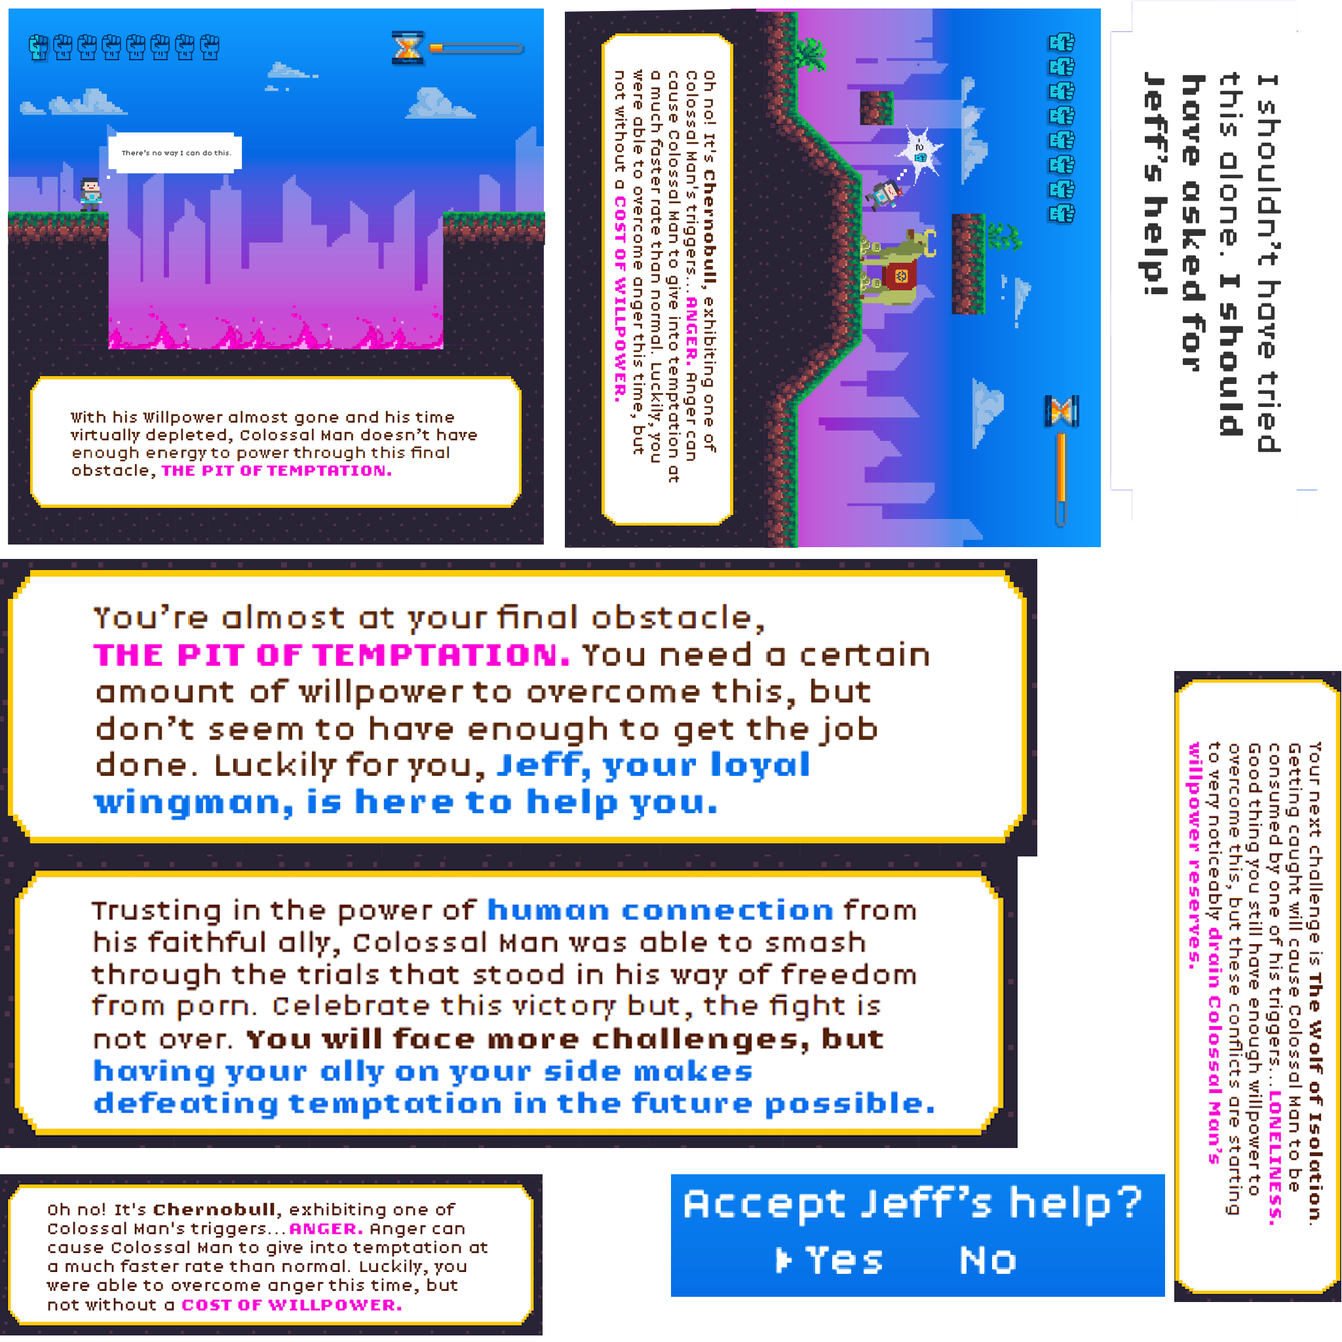
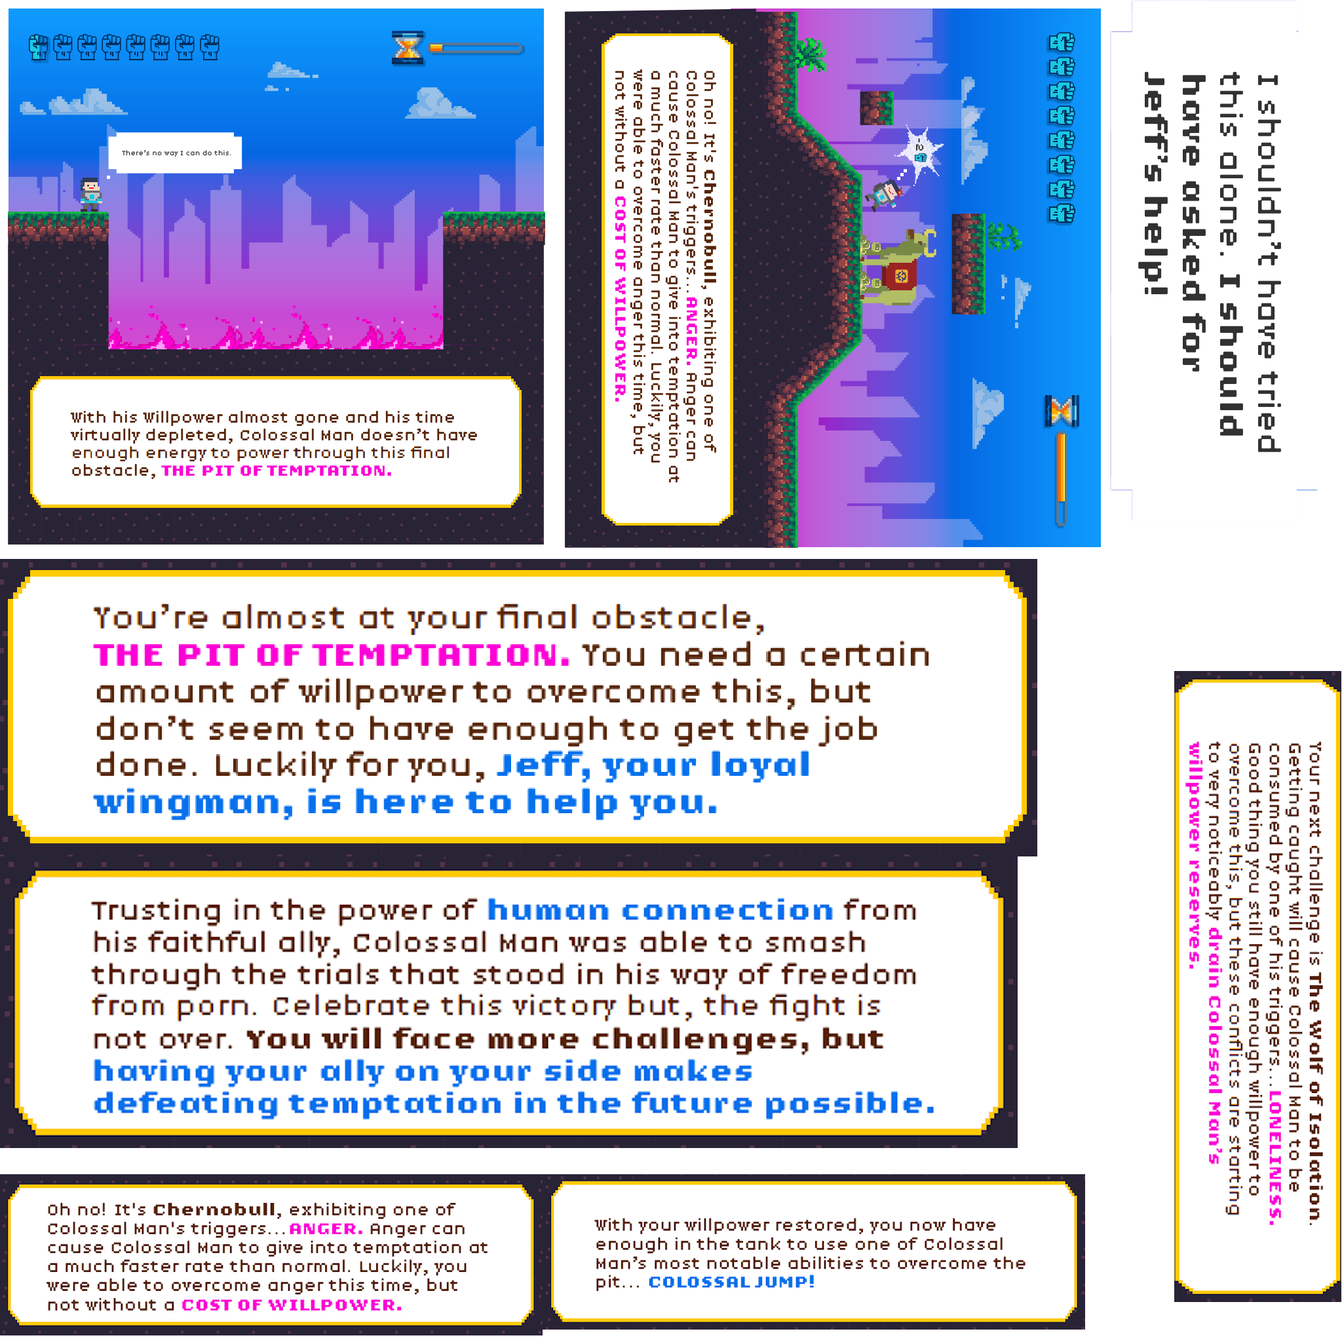
Add files via upload

Changed region(s): [[0.4062, 0.875, 0.875, 1.0]]

diff --git a/index.html b/index.html
@@ -2,155 +2,32 @@
 <html>
 <head>
 <meta charset="UTF-8">
-<title>Colossal Man: A Game of Willpower. Created by Covenant Eyes.</title>
+<title>Platformer</title>
 <meta name="viewport" content="width=device-width, initial-scale=1.0, maximum-scale=1.0, minimum-scale=1.0, user-scalable=no">
+
 <meta name="generator" content="Construct 3">
+
 	<link rel="manifest" href="appmanifest.json">
 	<link rel="apple-touch-icon" sizes="128x128" href="icons/icon-128.png">
 	<link rel="apple-touch-icon" sizes="256x256" href="icons/icon-256.png">
 	<link rel="apple-touch-icon" sizes="512x512" href="icons/icon-512.png">
 	<link rel="icon" type="image/png" href="icons/icon-512.png">
-	<link rel="preconnect" href="https://fonts.googleapis.com">
-	<link rel="preconnect" href="https://fonts.gstatic.com" crossorigin>
-	<link href="https://fonts.googleapis.com/css2?family=Open+Sans:wght@400;600&display=swap" rel="stylesheet">
-	<link rel="stylesheet" href="style.css">
+
+<link rel="stylesheet" href="style.css">
+
 </head>
 <body>
 <div id="fb-root"></div>
-	<header class="header">
-	  <div class="burger">
-	    <div class="burger__patty"></div>
-	    <div class="burger__patty"></div>
-	    <div class="burger__patty"></div>
-	  </div>
-	  <nav class="menu">
-	    <div class="menu__brand">
-	      <div class="logo">
-		<img src="images/ce_menu_img.png" style="border-radius:25%; margin-bottom:10px; width:80%;" />
-	      </div>
-	    </div>
-		<div class="menu__list">
-			<?xml version="1.0"?>
-			<svg class="menu-logo" xmlns="http://www.w3.org/2000/svg" width="211" height="41" viewBox="0 0 211 41">
-			    <defs>
-				<linearGradient id="pp92pmwrea" x1="138.312%" x2="3.456%" y1="1.59%" y2="75.506%">
-				    <stop offset="0%" stop-color="#FFF"/>
-				    <stop offset="22.09%" stop-color="#77DCEB"/>
-				    <stop offset="100%" stop-color="#0091D1"/>
-				</linearGradient>
-			    </defs>
-			    <g fill="none" fill-rule="evenodd">
-				<g fill-rule="nonzero">
-				    <g>
-					<g>
-					    <g transform="translate(-51 -1574) translate(51 1574)">
-						<ellipse cx="26.996" cy="20.828" fill="#FFF" rx="9.307" ry="9.309"/>
-						<g>
-						    <g>
-							<path fill="url(#pp92pmwrea)" d="M39.72 24.082l8.224 3.183c-.627.545-1.26 1.067-1.9 1.56l-.24.187-6.95-2.691 7.302 4.526c.035.926.035 1.87.012 2.83l-8.58-5.316 8.469 7.72c-.07.98-.165 1.97-.288 2.984l-9.8-8.934 7.983 10.57c-1.02.03-2.016.035-3 .011l-6.893-9.133 4.495 9.028c-.96-.065-1.899-.158-2.819-.276l-3.821-7.679 2.116 7.427c-.903-.152-1.788-.328-2.644-.533l-1.776-6.243.551 5.926c-.85-.228-1.676-.486-2.479-.768l-.457-4.935-.457 4.924c-.803.281-1.63.539-2.48.768l.551-5.921-1.77 6.231c-.861.206-1.74.381-2.643.534l2.11-7.422-3.821 7.674c-.92.117-1.858.21-2.82.275l4.49-9.021-6.893 9.133c-.979.023-1.98.023-3-.006l7.965-10.564-9.794 8.928c-.123-1.008-.223-2.004-.287-2.983l8.469-7.72-8.58 5.316c-.024-.961-.018-1.905.01-2.831l7.31-4.526-6.94 2.69-.246-.193c-.633-.492-1.266-1.008-1.893-1.553l8.211-3.183-9.723 1.817c-.692-.65-1.378-1.337-2.063-2.058l11.34-2.122H1.009C.674 21.326.334 20.928 0 20.517c.328-.404.662-.803.996-1.195h13.27L2.907 17.199c.68-.715 1.366-1.4 2.057-2.057l9.747 1.823-8.234-3.189c.638-.557 1.283-1.084 1.928-1.583l.205-.164 6.963 2.697-7.285-4.514c-.036-.926-.036-1.87-.018-2.832l8.563 5.306-8.44-7.71c.065-.978.164-1.975.281-2.989l9.788 8.922L10.474.334C11.494.304 12.49.3 13.469.322l6.904 9.145-4.501-9.04c.961.065 1.899.16 2.82.276l3.826 7.692-2.115-7.44c.902.153 1.787.329 2.643.534l1.776 6.249L24.27 1.8c.85.228 1.676.486 2.48.773l.456 4.942.457-4.942c.803-.28 1.63-.539 2.48-.773l-.551 5.938 1.776-6.249c.861-.205 1.74-.381 2.643-.533l-2.116 7.439L35.73.703c.92-.117 1.858-.21 2.82-.275l-4.502 9.04L40.97.321C41.948.3 42.95.305 43.964.334l-7.989 10.581 9.783-8.922c.123 1.014.217 2.005.287 2.984l-8.452 7.715 8.57-5.306c.023.962.017 1.905-.013 2.832l-7.29 4.514 6.962-2.697.217.17c.645.498 1.284 1.026 1.922 1.577l-8.234 3.189 9.747-1.823c.691.65 1.377 1.336 2.057 2.057l-11.365 2.122h13.276c.334.387.662.786.996 1.19-.334.41-.674.815-1.014 1.208H40.16l11.347 2.122c-.68.715-1.365 1.401-2.057 2.058l-9.73-1.823zm-19.136-3.553c0 3.664 2.972 6.636 6.635 6.636s6.635-2.972 6.635-6.636-2.972-6.636-6.635-6.636c-3.67.006-6.635 2.972-6.635 6.636z"/>
-							<path fill="#FFF" d="M8.293 10.212c-.035-.926-.035-1.87-.017-2.832l3.74 2.316c-.74.451-1.478.938-2.21 1.454l-1.513-.938zm.1-5.235c.065-.979.164-1.976.281-2.99l6.559 5.98c-.762.357-1.518.75-2.268 1.178L8.393 4.977zm2.08-4.643C11.494.304 12.49.3 13.47.322l4.83 6.396c-.774.27-1.548.574-2.322.909L10.474.334zm5.405.094c.961.064 1.899.158 2.819.275l2.573 5.165c-.785.182-1.57.399-2.356.65L15.878.429zm4.53.528c.903.152 1.788.328 2.644.533l1.102 3.875c-.797.094-1.589.223-2.386.387L20.408.956zm3.875.85c.85.228 1.676.486 2.479.773l.24 2.615c-.797.006-1.6.047-2.397.129l-.322-3.517zm3.364 1.096c.797.305 1.57.639 2.315.996l-.135 1.425c-.797-.082-1.6-.123-2.397-.13l.217-2.291zm2.966 1.313c.744.375 1.459.78 2.15 1.202l-.099.34c-.791-.165-1.588-.293-2.386-.387l.335-1.155zm13.996 25.67l1.547.956c.035.926.035 1.87.012 2.831l-3.769-2.333c.745-.451 1.483-.932 2.21-1.454zm-3.148 2.01l4.596 4.186c-.07.98-.165 1.97-.288 2.984l-6.576-5.99c.762-.358 1.518-.751 2.269-1.18zm-3.012 1.52l5.503 7.286c-1.02.03-2.016.035-3 .011l-4.824-6.39c.78-.263 1.553-.568 2.32-.908zm-2.925 1.113L38.55 40.6c-.962-.064-1.9-.158-2.82-.275l-2.567-5.153c.797-.176 1.583-.393 2.362-.645zm-2.86.762l1.36 4.79c-.903-.153-1.788-.329-2.644-.534l-1.101-3.863c.797-.1 1.588-.229 2.385-.393zm-2.837.44l.323 3.505c-.85-.228-1.677-.486-2.48-.768l-.24-2.608c.797-.012 1.6-.053 2.397-.13zm-2.83.123l-.212 2.286c-.797-.305-1.57-.633-2.315-.99l.13-1.425c.796.082 1.6.123 2.396.129zm-2.85-.176l-.327 1.155c-.745-.375-1.46-.774-2.151-1.202l.1-.346c.79.164 1.588.3 2.379.393z"/>
-							<g fill="#FFF">
-							    <path d="M102.88 15.98h10.673v1.313h-12.062V.663h10.837l.534 1.283h-9.982v6.05h8.774l.534 1.284h-9.308v6.7zm32.899-9.52c.996 1.16 1.506 2.644 1.506 4.397v.668H127.04c-.006 1.266.44 2.345 1.365 3.294.973 1.003 2.163 1.49 3.634 1.49 1.647 0 3.142-.499 4.443-1.484l.293-.217v1.484l-.076.052c-1.26.92-2.82 1.39-4.636 1.39-3.892 0-6.412-2.539-6.412-6.472 0-1.823.556-3.312 1.7-4.543 1.13-1.243 2.572-1.87 4.278-1.87 1.782.011 3.136.598 4.15 1.811zm.152 3.863c-.276-2.784-1.829-4.379-4.273-4.379-1.278 0-2.315.416-3.177 1.272-.814.815-1.283 1.859-1.395 3.101h8.845v.006zm-16.405 4.954L115.335 4.93h-1.506l4.976 11.941-2.597 6.25h1.454l7.625-18.191h-1.424l-4.337 10.347zm23.802-5.27l-.141-.053c-1.524-.621-2.298-1.33-2.298-2.105 0-1.729 1.7-1.987 2.714-1.987 1.067 0 2.145.31 3.3.95l.27.152V5.54l-.1-.053c-1.102-.551-2.304-.832-3.575-.832-2.433 0-3.998 1.272-3.998 3.241 0 2.04 2.128 2.873 4.003 3.605.188.07.376.147.557.217.856.335 2.292 1.09 2.292 2.404 0 1.987-2.239 2.204-3.2 2.204-1.43 0-2.737-.416-3.88-1.237l-.287-.205v1.483l.082.053c1.148.738 2.55 1.114 4.161 1.114 2.725 0 4.49-1.401 4.49-3.57.005-2.316-2.433-3.225-4.39-3.957zM13.838 14.04c-1.46.815-2.96 1.225-4.466 1.225-1.975 0-3.528-.58-4.619-1.718-1.096-1.143-1.652-2.702-1.652-4.63 0-2 .61-3.612 1.816-4.796C6.16 2.925 7.66 2.345 9.495 2.345c1.348 0 2.602.281 3.74.838l.421.211V.91L13.498.82C12.496.31 11.072.047 9.272.047c-2.526 0-4.648.856-6.306 2.538C1.296 4.28.45 6.407.45 8.916c0 2.521.78 4.614 2.31 6.226 1.53 1.606 3.686 2.42 6.412 2.42 2.033 0 3.657-.386 4.964-1.183l.14-.088v-2.503l-.269.152-.17.1zm12.63-7.592c1.22 1.249 1.841 2.802 1.841 4.626 0 1.852-.61 3.37-1.87 4.625-1.213 1.237-2.778 1.87-4.653 1.87-1.987 0-3.599-.622-4.789-1.847-1.184-1.213-1.787-2.778-1.787-4.654 0-1.794.638-3.342 1.893-4.596 1.254-1.26 2.83-1.894 4.677-1.894 1.899 0 3.476.628 4.689 1.87zm-1.675 7.78c.744-.845 1.119-1.918 1.119-3.184 0-1.213-.387-2.263-1.149-3.13-.738-.838-1.74-1.266-2.977-1.266-1.237 0-2.24.428-2.978 1.266-.762.867-1.148 1.923-1.148 3.13 0 2.703 1.617 4.45 4.126 4.45 1.277 0 2.262-.41 3.006-1.267zM50.856 6.4c1.037 1.202 1.559 2.732 1.559 4.538 0 .264 0 .457-.03.586l-.035.14h-9.383c.058 1.19.475 2.14 1.23 2.826.815.733 1.777 1.09 2.937 1.09 1.647 0 3.142-.498 4.443-1.483l.293-.222v2.274l-.076.053c-1.237.903-2.808 1.366-4.683 1.366-2.075 0-3.664-.586-4.871-1.788-1.184-1.214-1.758-2.761-1.758-4.737 0-1.788.58-3.335 1.729-4.59 1.16-1.243 2.643-1.876 4.413-1.876 1.77 0 3.189.616 4.232 1.823zm-.756 3.43c-.346-2.034-1.612-3.236-3.417-3.236-1.893 0-3.312 1.266-3.663 3.236h7.08zm48.881 4.883c-.703.469-1.4.698-2.121.698-1.12 0-1.553-.563-1.553-2.011V6.829h3.387V4.842h-3.387V.662h-1.66l-.761 4.315v7.503c0 1.747.135 2.615.557 3.57.463 1.015 1.43 1.49 3.036 1.49 1.025 0 1.934-.276 2.708-.821l.076-.053v-2.14l-.282.188zm-13-10.106c-1.623 0-3 .621-4.096 1.84l-.334-1.57h-1.817v12.415h2.397V10.91c0-2.614 1.395-4.232 3.64-4.232 1.664 0 2.66 1.249 2.66 3.341v7.275h2.398V9.801c-.006-3.353-1.724-5.193-4.847-5.193zm-25.607 0c-1.623 0-3 .621-4.097 1.84l-.334-1.57h-1.817v12.415h2.398V10.91c0-2.614 1.395-4.232 3.64-4.232 1.664 0 2.66 1.249 2.66 3.341v7.275h2.397V9.801c-.005-3.353-1.723-5.193-4.847-5.193zm17.296 4.977v7.708h-1.846l-.234-1.371c-1.008 1.09-2.462 1.64-4.332 1.64-1.535 0-2.672-.374-3.381-1.113-.71-.768-1.055-1.594-1.055-2.538 0-2.808 2.045-4.356 5.761-4.356h2.69v-.222c0-1.865-1.02-2.773-3.124-2.773-1.19 0-2.461.375-3.786 1.114l-.27.152V5.675l.094-.053c1.254-.698 2.679-1.05 4.232-1.05 3.534.006 5.251 1.642 5.251 5.013zM69.214 13.7c0 1.19 1.043 1.958 2.66 1.958 2.345 0 3.394-1.8 3.394-3.582v-.657h-2.69c-2.262 0-3.364.745-3.364 2.28zM33.59 17.293l-5.486-12.45h2.55l3.657 8.253 3.657-8.254h2.55l-5.486 12.451H33.59zm0 0l-5.486-12.45h2.55l3.657 8.253 3.657-8.254h2.55l-5.486 12.451H33.59zm0 0l-5.486-12.45h2.55l3.657 8.253 3.657-8.254h2.55l-5.486 12.451H33.59zm0 0l-5.486-12.45h2.55l3.657 8.253 3.657-8.254h2.55l-5.486 12.451H33.59zm0 0l-5.486-12.45h2.55l3.657 8.253 3.657-8.254h2.55l-5.486 12.451H33.59zm0 0l-5.486-12.45h2.55l3.657 8.253 3.657-8.254h2.55l-5.486 12.451H33.59zm0 0l-5.486-12.45h2.55l3.657 8.253 3.657-8.254h2.55l-5.486 12.451H33.59z" transform="translate(58.025 11.724)"/>
-							</g>
-						    </g>
-						    <g fill="#FFF">
-							<path d="M1.348 1.94L1.02 1.94 1.02.387.434.387.434.088 1.94.088 1.94.387 1.354.387 1.354 1.94zM3.194 1.483L3.183 1.483 2.602.616 2.602 1.94 2.28 1.94 2.28.088 2.626.088 3.188.961 3.751.088 4.103.088 4.103 1.94 3.775 1.94 3.775.61z" transform="translate(206.897 16.414)"/>
-						    </g>
-						</g>
-					    </g>
-					</g>
-				    </g>
-				</g>
-			    </g>
-			</svg>
-			<h2>
-			 Thanks for playing COLOSSAL MAN!
-			</h2>
-			<p>
-			  For over 20 years, Covenant Eyes has helped over a million people walk the path to a life free of pornography.
-			</p>
-			<a class="link-trial" href="https://covenanteyes.com/signup-v2/create-account?utm_campaign=ACP&utm_source=men&utm_medium=notalone">Try 14 Days Free</a>
-		</div>
-	  </nav>
-	</header>
+
 	<noscript>
-	  <div id="notSupportedWrap">
-	     <h2 id="notSupportedTitle">This content requires JavaScript</h2>
-	     <p class="notSupportedMessage">JavaScript appears to be disabled. Please enable it to view this content.</p>
-	   </div>
+		<div id="notSupportedWrap">
+			<h2 id="notSupportedTitle">This content requires JavaScript</h2>
+			<p class="notSupportedMessage">JavaScript appears to be disabled. Please enable it to view this content.</p>
+		</div>
 	</noscript>
 	<script src="scripts/supportcheck.js"></script>
 	<script src="scripts/offlineclient.js" type="module"></script>
 	<script src="scripts/main.js" type="module"></script>
 	<script src="scripts/register-sw.js" type="module"></script>
-	<script src="https://cdnjs.cloudflare.com/ajax/libs/jquery/2.1.3/jquery.min.js" integrity="sha512-egJ/Y+22P9NQ9aIyVCh0VCOsfydyn8eNmqBy+y2CnJG+fpRIxXMS6jbWP8tVKp0jp+NO5n8WtMUAnNnGoJKi4w==" crossorigin="anonymous" referrerpolicy="no-referrer"></script>
-	<script type="text/javascript" src="https://cdnjs.cloudflare.com/ajax/libs/gsap/2.1.3/TweenMax.min.js"></script>
-	<script src="https://cdnjs.cloudflare.com/ajax/libs/typed.js/2.0.12/typed.min.js" integrity="sha512-3J8teBiHrSyaaRBajZyIEtpDsXdPq1gsznKWIVb5CnorQuFhjWGhWe54z8YNnHHr7MZuExb9m5kvf964HiT1Sw==" crossorigin="anonymous" referrerpolicy="no-referrer"></script>
-	<script>
-	$(function() {
-	  $(".p2").typed({
-	    strings: ["Designer", "Developer", "Maker"],
-	    typeSpeed: 50,
-	    backSpeed: 10,
-	    backDelay: 2000,
-	    showCursor: false,
-	    loop: false
-	  });
-	});
-	$('a[href*=#]:not([href=#])').click(function() {
-	  if (location.pathname.replace(/^\//, '') == this.pathname.replace(/^\//, '') && location.hostname == this.hostname) {
-	    var target = $(this.hash);
-	    target = target.length ? target : $('[name=' + this.hash.slice(1) + ']');
-	    if (target.length) {
-	      $('html,body').animate({
-	        scrollTop: target.offset().top
-	      }, 1000);
-	      return false;
-	    }
-	  }
-	});
-	(function() {
-
-	  var Menu = (function() {
-	    var burger = document.querySelector('.burger');
-	    var menu = document.querySelector('.menu');
-	    var menuList = document.querySelector('.menu__list');
-	    var brand = document.querySelector('.menu__brand');
-	    var menuItems = document.querySelectorAll('.menu__item');
-	    var active = false;
-	    var toggleMenu = function() {
-	      if (!active) {
-	        menu.classList.add('menu--active');
-	        menuList.classList.add('menu__list--active');
-	        brand.classList.add('menu__brand--active');
-	        burger.classList.add('burger--close');
-	        for (var i = 0, ii = menuItems.length; i < ii; i++) {
-	          menuItems[i].classList.add('menu__item--active');
-	        }
-	        active = true;
-	      } else {
-	        menu.classList.remove('menu--active');
-	        menuList.classList.remove('menu__list--active');
-	        brand.classList.remove('menu__brand--active');
-	        burger.classList.remove('burger--close');
-	        for (var i = 0, ii = menuItems.length; i < ii; i++) {
-	          menuItems[i].classList.remove('menu__item--active');
-	        }
-	        active = false;
-	      }
-	    };
-	    var bindActions = function() {
-	      burger.addEventListener('click', toggleMenu, false);
-	    };
-	    var init = function() {
-	      bindActions();
-	    };
-	    return {
-	      init: init
-	    };
-	  }());
-	  Menu.init();
-	}());
-	</script>
 </body>
 </html>

diff --git a/style.css b/style.css
@@ -1,1 +1,44 @@
-html,body{padding:0;margin:0;width:100%;height:100%;overflow:hidden;-webkit-perspective:1000;background:#000;font-family:"Open Sans",sans-serif}html,body,canvas{touch-action:none;touch-action-delay:none}#notSupportedWrap{margin:2em auto 1em auto;width:75%;max-width:45em;border:2px solid #aaa;border-radius:1em;padding:2em;background-color:#f0f0f0;font-family:"Segoe UI",Frutiger,"Frutiger Linotype","Dejavu Sans","Helvetica Neue",Arial,sans-serif;color:#000}#notSupportedTitle{font-size:1.8em}.notSupportedMessage{font-size:1.2em}.notSupportedMessage em{color:#888}@font-face{font-family:"timmy-regular";src:url("fonts/timmy-regular.woff2") format("woff2"),url("fonts/timmy-regular.ttf") format("truetype")}.hero{height:80%;width:100%;background:#ec6f66;background:linear-gradient(to left, #005ee0, #F3A183)}@media only screen and (min-width: 320px){.hero{height:60%}}@media only screen and (min-width: 680px){.hero{height:70%}}@media only screen and (min-width: 950px){.hero{height:80%}}.inner-logo{text-align:left;position:relative;top:10px;left:10px;transform:translateY(10px);transform:translateX(1px)}.inner-text{position:relative;top:50%;transform:translateY(-50%);font-size:50px}@media only screen and (min-width: 320px){.inner-text{padding-left:15px;padding-right:15px}}@media only screen and (min-width: 400px){.inner-text{padding-left:40px;padding-right:40px}}@media only screen and (min-width: 680px){.inner-text{font-size:75px}}@media only screen and (min-width: 950px){.inner-text{font-size:100px}}.p1{display:inline-block;font-size:1em;font-weight:100;marign:0;line-height:1;color:#f5f5f5}@media only screen and (max-width: 465px){.p1{display:block;position:absolute;top:-25%;left:50%;transform:translateX(-50%)}}.p2{display:inline-block;font-size:1em;font-weight:900;marign:0;line-height:1;color:#fff}@media only screen and (max-width: 465px){.p2{position:relative;top:.6em}}.hero-down{position:absolute;left:48%;font-size:2em;width:2em;height:2em;color:#f5f5f5;border-radius:100%}.hero-down:hover,.hero-down:focus{color:#ccc}.hero-down:active{color:#f5f5f5}.hero-down i{vertical-align:bottom;position:relative;top:.1em}@media only screen and (min-width: 320px){.hero-down{top:52%}}@media only screen and (min-width: 680px){.hero-down{top:62%}}@media only screen and (min-width: 950px){.hero-down{top:72%}}#about{padding:30px}.left{text-align:left}*{box-sizing:border-box}.header{position:fixed;z-index:5;width:100%}.burger{position:absolute;z-index:10;right:25px;top:25px;cursor:pointer;transform:rotateY(0);transition:all .4s cubic-bezier(0.23, 1, 0.32, 1)}.burger__patty{width:28px;height:2px;margin:0 0 4px 0;background:#fff;transition:all .4s cubic-bezier(0.23, 1, 0.32, 1)}.burger__patty:last-child{margin-bottom:0}.burger--close{transform:rotate(180deg)}.burger--close .burger__patty:nth-child(1){transform:rotate(45deg) translate(4px, 4px)}.burger--close .burger__patty:nth-child(2){opacity:0}.burger--close .burger__patty:nth-child(3){transform:rotate(-45deg) translate(5px, -4px)}.menu{position:fixed;top:0;width:100%;visibility:hidden}.menu--active{visibility:visible}.menu__brand,.menu__list{display:flex;flex-flow:column wrap;align-items:center;justify-content:center;float:left;width:50%;height:100vh;overflow:hidden}.menu__list{margin:0;padding:20px 70px;color:#fff;text-align:center;background:#ec6f66;background:linear-gradient(to left, #005ee0, #002870);list-style-type:none;transform:translate3d(0, -100%, 0);overflow-y:scroll !important;transition:all .4s cubic-bezier(0.23, 1, 0.32, 1)}.menu__list--active{transform:translate3d(0, 0, 0)}.menu__brand{background:#fff;transition:all .4s cubic-bezier(0.23, 1, 0.32, 1);transform:translate3d(0, 100%, 0)}.menu__brand--active{transform:translate3d(0, 0, 0);text-align:center}.menu__item{transform:translate3d(500px, 0, 0);transition:all .4s cubic-bezier(0.23, 1, 0.32, 1)}.menu__item--active{transform:translate3d(0, 0, 0)}.menu__link{display:inline-block;position:relative;font-size:42px;padding:15px 0;font-weight:300;text-decoration:none;color:#fff;transition:all .4s cubic-bezier(0.23, 1, 0.32, 1)}.menu__link:before{content:"";position:absolute;bottom:0;left:50%;width:10px;height:2px;background:#fff;transform:translateX(-50%);transition:all .4s cubic-bezier(0.23, 1, 0.32, 1)}.menu__link:hover:before{width:100%}.menu a.menu__link:hover{color:#fff !important;text-decoration:none !important;font-weight:bold !important}.menu .menu__item:nth-child(1){transition-delay:.1s}.menu .menu__item:nth-child(2){transition-delay:.2s}.menu .menu__item:nth-child(3){transition-delay:.3s}.menu .menu__item:nth-child(4){transition-delay:.4s}.menu .menu__item:nth-child(5){transition-delay:.5s}.menu .menu__item:nth-child(6){transition-delay:.6s}@media screen and (max-width: 768px){ul.menu__list,div.menu__brand{float:none;width:100%;min-height:0}ul.menu__list--active,div.menu__brand--active{transform:translate3d(0, 0, 0)}.menu__list{height:75vh;transform:translate3d(-100%, 0, 0)}.menu__link{font-size:24px}.menu__brand{height:25vh;transform:translate3d(100%, 0, 0)}.menu__brand .logo{width:90px;height:90px}}.link-trial{background:#fff;border:2px solid #fff;padding:10px 20px;outline:0;text-decoration:none;border-radius:5px;box-shadow:0;color:#005ee0;margin-top:10px}.link-trial:hover{background:#005ee0;border:2px solid #fff;padding:10px 20px;outline:0;text-decoration:none;border-radius:5px;box-shadow:0;color:#fff;margin-top:10px}h2{margin-bottom:0;max-width:300px;font-size:22px !important}p{max-width:300px;font-size:16px}.menu-logo{max-width:150px;margin-bottom:0px}@media only screen and (max-width: 900px){.menu__brand{display:none !important}.menu__list{transform:none;height:100vh;width:100vw}}
+html, body {
+	padding: 0;
+	margin: 0;
+	overflow: hidden;
+	
+	background: #000000;
+	color: white;
+}
+
+html, body, canvas {
+	touch-action: none;
+	touch-action-delay: none;
+}
+
+#notSupportedWrap {
+	margin: 2em auto 1em auto;
+	width: 75%;
+	max-width: 45em;
+	border: 2px solid #aaa;
+	border-radius: 1em;
+	padding: 2em;
+	background-color: #f0f0f0;
+	font-family: "Segoe UI", Frutiger, "Frutiger Linotype", "Dejavu Sans", "Helvetica Neue", Arial, sans-serif;
+	color: black;
+}
+
+#notSupportedTitle {
+	font-size: 1.8em;
+}
+
+.notSupportedMessage {
+	font-size: 1.2em;
+}
+
+.notSupportedMessage em {
+	color: #888;
+}
+
+
+@font-face {
+	font-family: 'timmy-regular';
+	src: url('fonts/timmy-regular.woff2') format('woff2'), url('fonts/timmy-regular.ttf') format('truetype');
+}
+

diff --git a/scripts/c3runtime.js b/scripts/c3runtime.js
@@ -3987,17 +3987,23 @@ self.C3_GetObjectRefTable = function () {
 		C3.Plugins.Sprite.Acts.SetPos,
 		C3.Plugins.Sprite.Acts.SetVisible,
 		C3.Plugins.Tilemap.Acts.SetWidth,
+		C3.Plugins.Sprite.Cnds.IsVisible,
 		C3.Behaviors.MoveTo.Acts.MoveToPosition,
 		C3.Behaviors.MoveTo.Cnds.OnArrived,
 		C3.Plugins.Sprite.Acts.StopAnim,
 		C3.Plugins.Text.Acts.SetVisible,
 		C3.Plugins.Text.Cnds.IsVisible,
 		C3.Plugins.Keyboard.Cnds.OnKey,
-		C3.Plugins.Sprite.Cnds.IsVisible,
 		C3.Behaviors.Sin.Acts.SetEnabled,
 		C3.Plugins.System.Acts.AddVar,
 		C3.Behaviors.Platform.Acts.SimulateControl,
-		C3.Plugins.System.Acts.SetVar
+		C3.Plugins.System.Acts.SetVar,
+		C3.Behaviors.Platform.Acts.SetGravity,
+		C3.Behaviors.Platform.Acts.SetMaxSpeed,
+		C3.Plugins.Sprite.Cnds.CompareWidth,
+		C3.Plugins.Sprite.Acts.SetWidth,
+		C3.Plugins.Sprite.Acts.SetY,
+		C3.Plugins.Sprite.Acts.SetX
 	];
 };
 self.C3_JsPropNameTable = [
@@ -4059,7 +4065,7 @@ self.C3_JsPropNameTable = [
 	{diamond_ray: 0},
 	{hand: 0},
 	{hurt_notify: 0},
-	{hurt_txt: 0},
+	{colasolJump: 0},
 	{ScreenShot20211123At71839PM: 0},
 	{willpowertext: 0},
 	{time_remaining_text: 0},
@@ -4074,7 +4080,7 @@ self.C3_JsPropNameTable = [
 	{Sprite3: 0},
 	{Sprite4: 0},
 	{Sprite5: 0},
-	{ScreenShot20211129At80653PM: 0},
+	{victory_subtitle: 0},
 	{victory: 0},
 	{flag: 0},
 	{yellow_guy: 0},
@@ -4090,6 +4096,9 @@ self.C3_JsPropNameTable = [
 	{arrow_yes: 0},
 	{arrow_no: 0},
 	{Sprite6: 0},
+	{collosal: 0},
+	{ColossalJump: 0},
+	{ScreenShot20211201At124446AM: 0},
 	{num_players: 0},
 	{time_initial: 0},
 	{hurt_willpower_lock: 0},
@@ -4227,8 +4236,9 @@ self.C3_ExpressionFuncs = [
 		() => 1,
 		() => "spike",
 		() => "goal",
-		() => 2,
 		() => "4_1p",
+		() => 2,
+		() => "7_2p",
 		() => "willpower",
 		() => 2.5,
 		() => 0.5,
@@ -4323,14 +4333,24 @@ self.C3_ExpressionFuncs = [
 		},
 		() => "explode",
 		() => "jeff ask help",
-		() => "7_2p",
 		() => 400,
-		p => {
-			const n0 = p._GetNode(0);
-			return () => (n0.ExpObject() - 65);
-		},
 		() => 415,
 		() => 0.1,
+		() => "collasoal jump",
+		() => "5_2p",
+		() => 600,
+		() => 950,
+		() => 700,
+		p => {
+			const n0 = p._GetNode(0);
+			return () => (n0.ExpObject() + 10);
+		},
+		p => {
+			const n0 = p._GetNode(0);
+			return () => (n0.ExpObject() - 25);
+		},
+		() => "victory subtitle",
+		() => 478,
 		() => "title_1p",
 		() => "title_2p",
 		() => "gameover_1p_yes",
